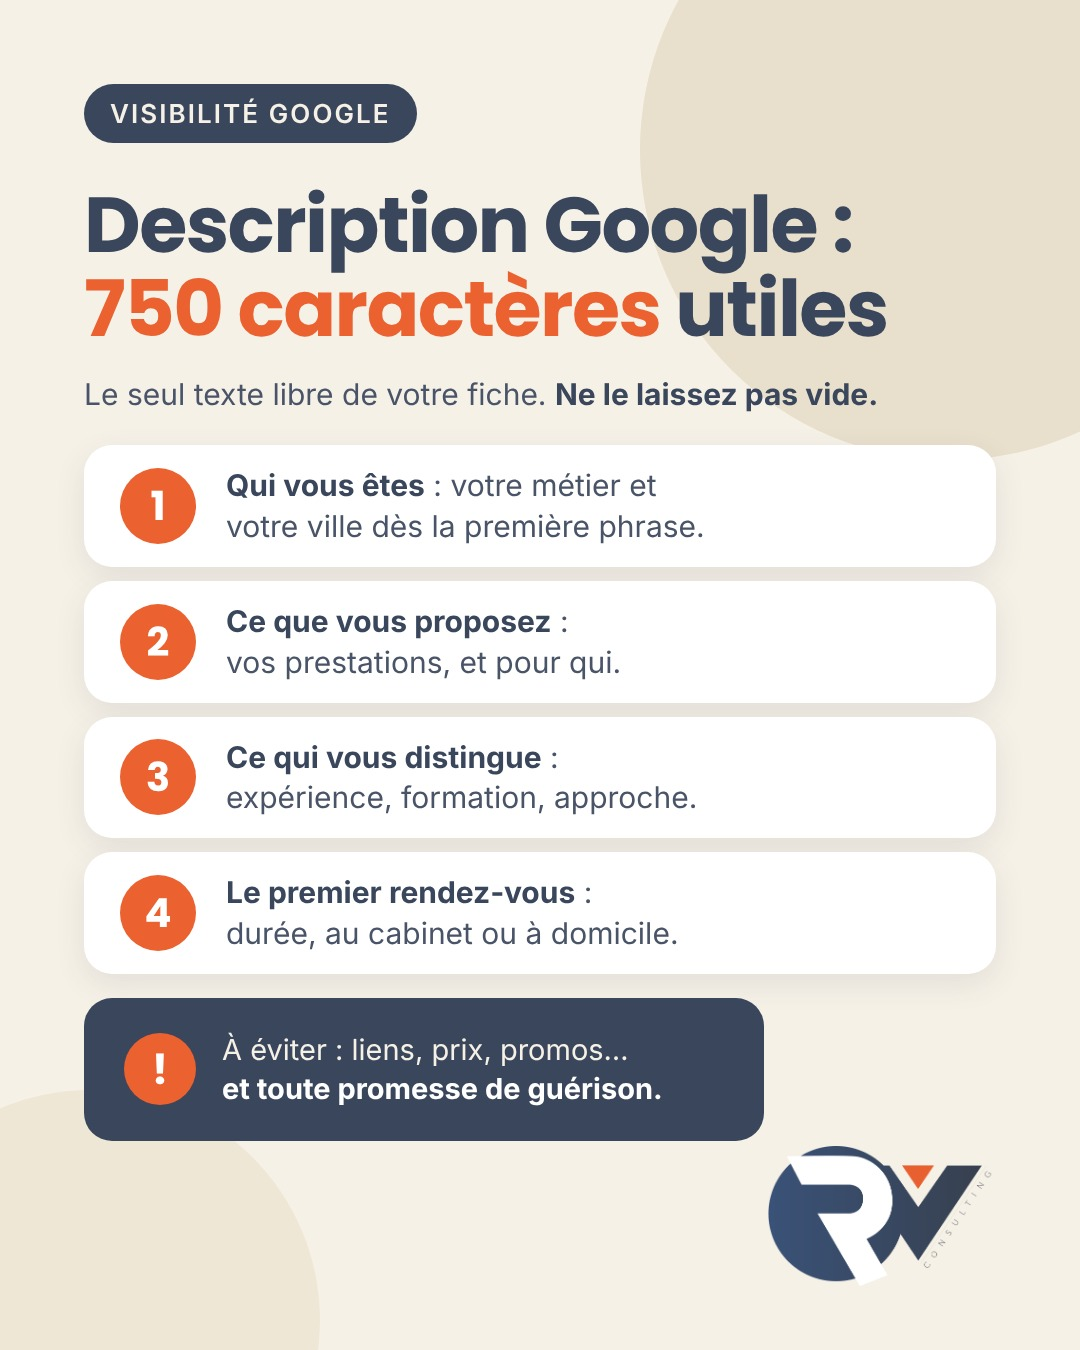
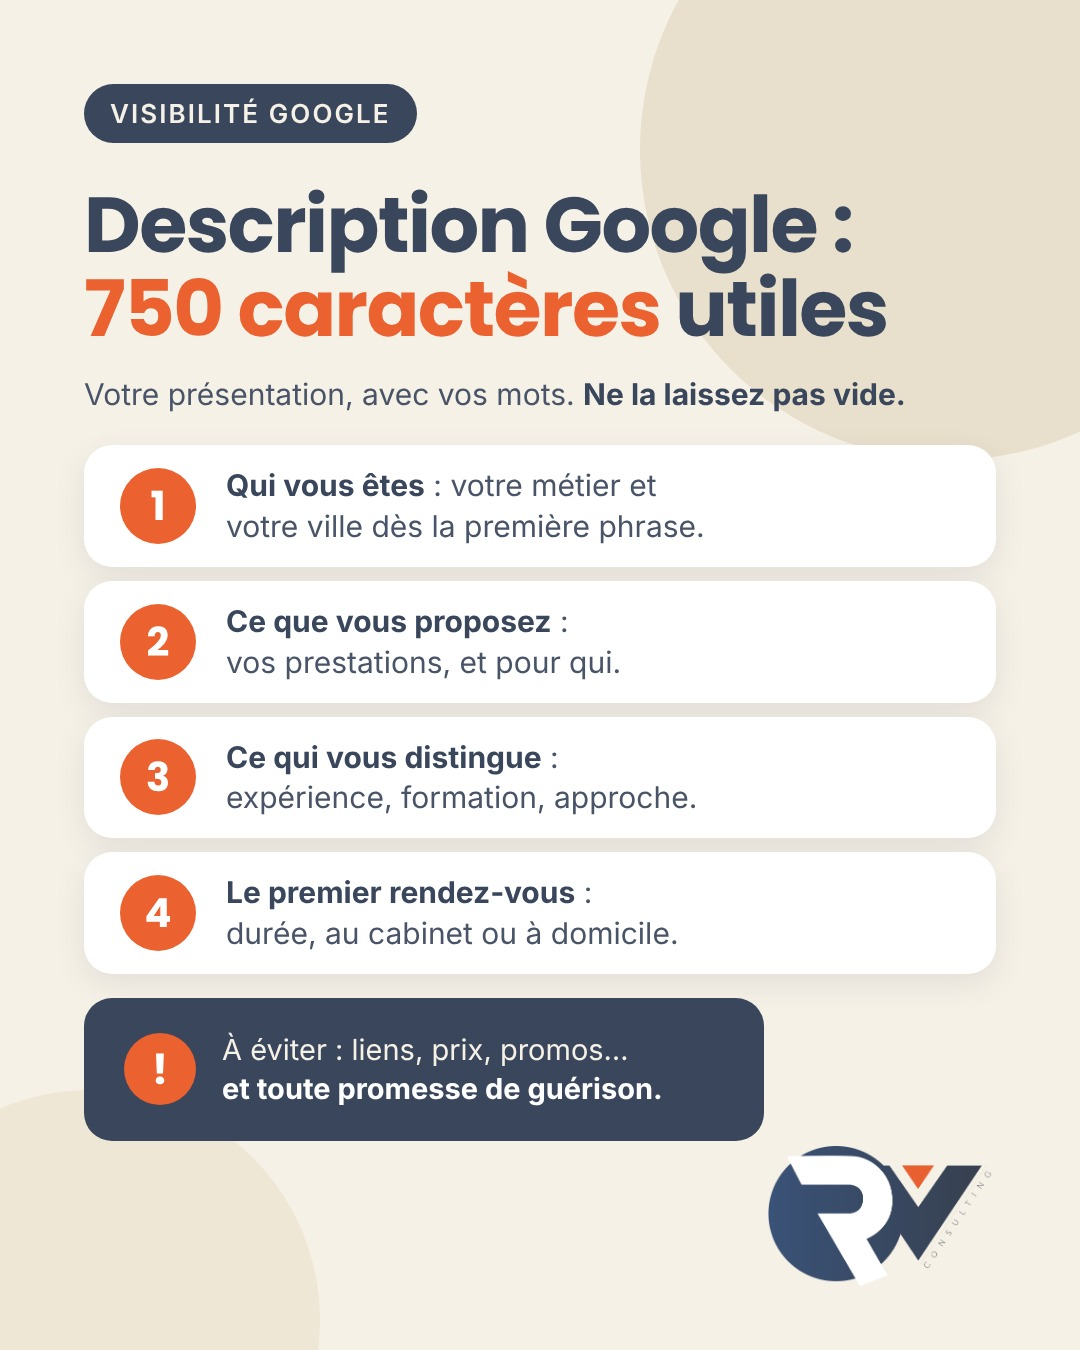
Visuel du 18/11 : sous-titre corrigé
Claude-Session: https://claude.ai/code/session_016BkHtYTSZcRjnga6Wq9TLb

Changed region(s): [[0.0611, 0.28, 0.825, 0.3111]]

diff --git a/gabarits/2026-11-18-description-fiche-google.html b/gabarits/2026-11-18-description-fiche-google.html
@@ -33,7 +33,7 @@
   <div class="blob"></div><div class="blob2"></div>
   <span class="tag">Visibilité Google</span>
   <h1>Description Google :<br><em>750 caractères</em> utiles</h1>
-  <p class="sub">Le seul texte libre de votre fiche. <b>Ne le laissez pas vide.</b></p>
+  <p class="sub">Votre présentation, avec vos mots. <b>Ne la laissez pas vide.</b></p>
 
   <div class="rows">
     <div class="row">
